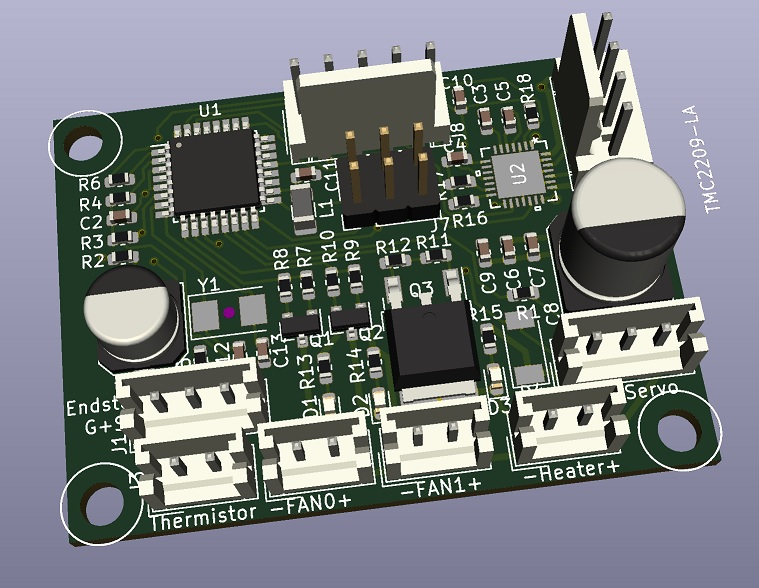
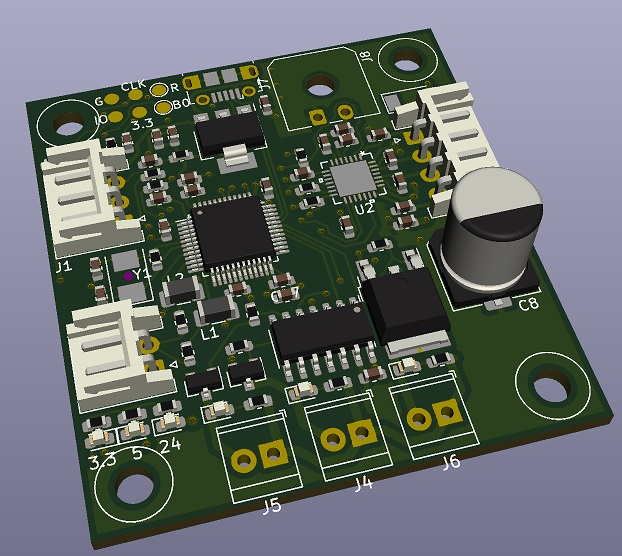
STM32v1

diff --git a/README.md b/README.md
@@ -6,23 +6,18 @@ A very small 3D printer board for use on a toolhead.
 
 Features: 
 * TMC2209 driver
-* ATmega168
+* STM32F103C8T6
 * Two MOSFET drivers fans
 * One big MOSFET driver for a hotend heater
 * Thermistor input
-* One servo
 * One endstop
 
+Main power is 12-24V
 
-It should be fed from the mainboard with 12-24V, 5V, GND, UART RX and UART TX. 
+
+Communication with host is done via micro USB, small electronics is powered though that
 
 Possible issues:
 * Is the cooling for the TMC2209 adequate?
-* How well will the UART cmos/ttl level survive? Noise?
-* Does it work
 
-Alternative design options: 
-* Use an ARM instead? STM32F030
-* Create a local 5V/3.3V instead? Switch regulator + LDO. Only the servo needs 5V
-* USB-c would be neat, it could provide all the power and signalling needed
 
